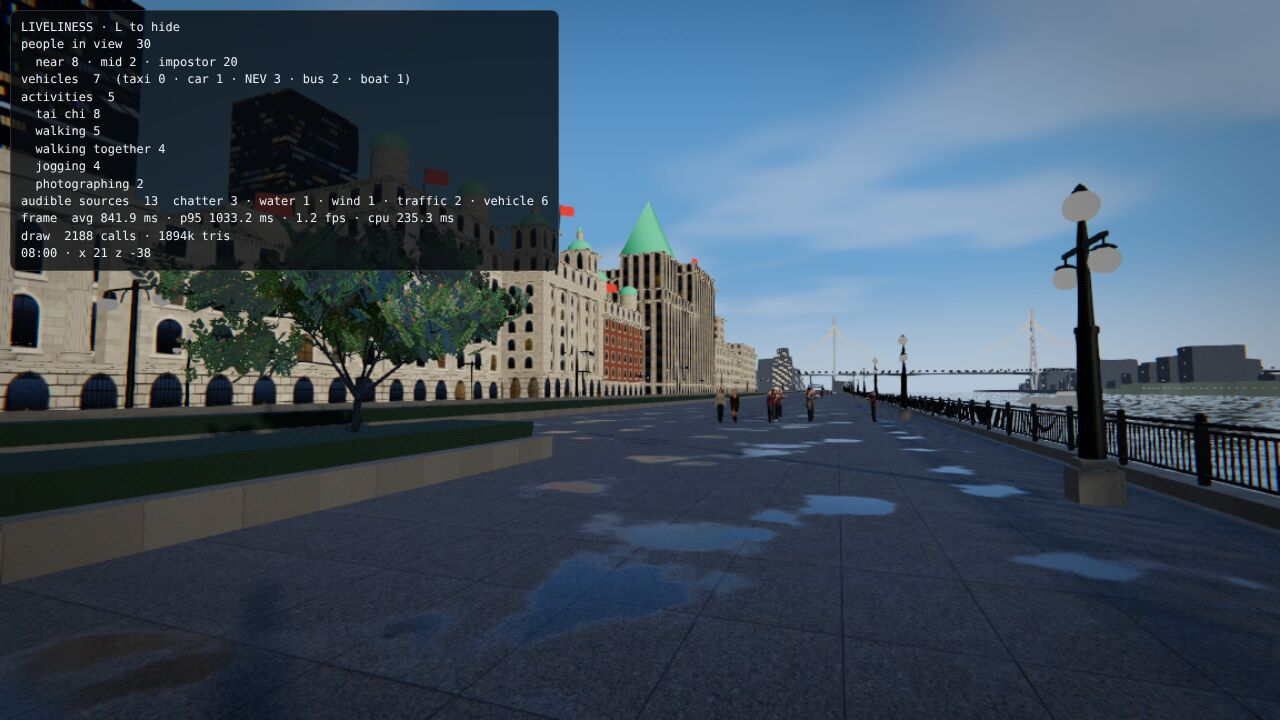
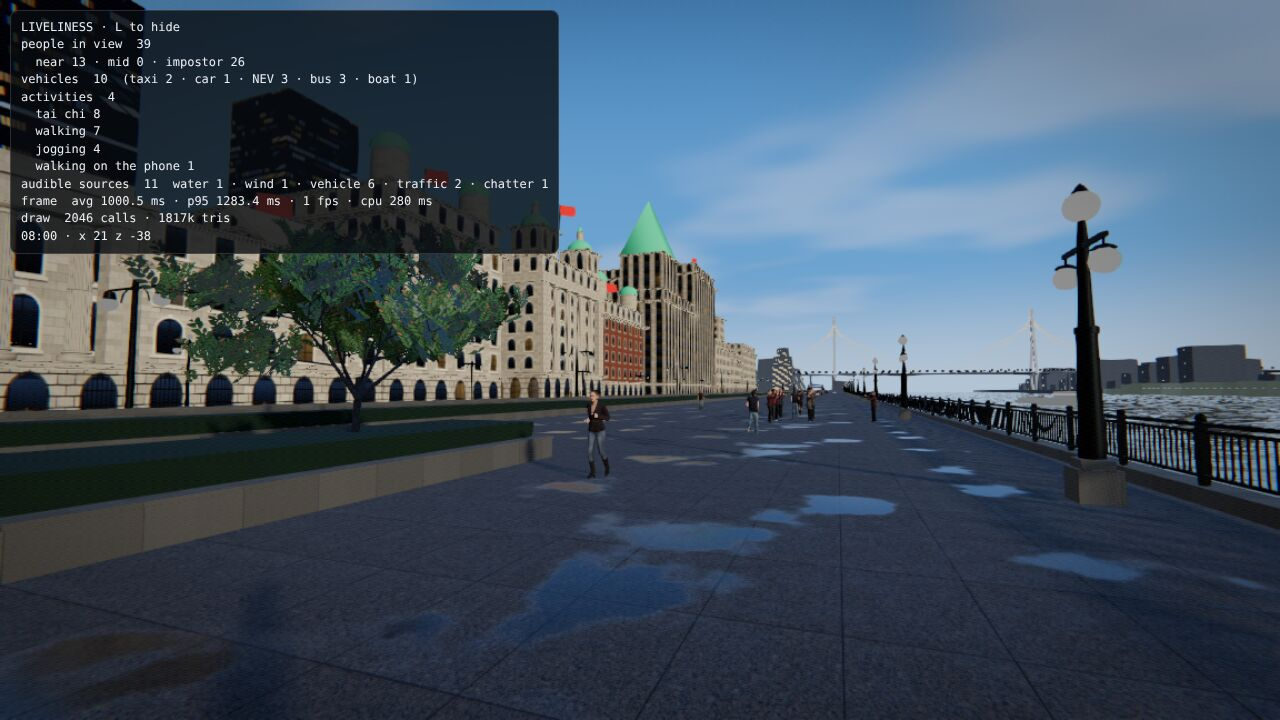
Full people go to those in view: rank the crowd's near people by where the camera looks
On Nanjing Road the hero shot showed only one or two full people: the 16 slots (medium detail) went to
the nearest people in every direction, and at that spot (just east of metro Exit 7 and the Henan Road
crossing, where people arrive) most of them are behind the camera. Not a body-pool shortage, nobody stuck.

- engine/crowd.js nearRank / viewCos (tested): anyone within 3 m stays a full person whichever way you
  face (the people you bump into and talk to); beyond that, someone outside a cone ~29 degrees wider than
  the view counts as three times as far.
- world/crowdView.js uses it, and re-ranks at once when the view turns more than ~25 degrees.
- Re-measured: full people in view at the four hero shots 2 -> 7.4, 15 -> 20, 7 -> 11.6, 8 -> 13; draw
  calls unchanged. docs/living-city.md has the cause, the numbers and a turn-round check.

Claude-Session: https://claude.ai/code/session_018TEJd3RTM5mNGaz8do4XHT

diff --git a/src/world/crowdView.js b/src/world/crowdView.js
@@ -13,6 +13,7 @@ import { holdPhone } from './pedestriansReal.js';
 import { twoBone } from './driverPose.js';
 import { L, deckLamps, DECK_LAMP_X } from './layout.js';
 import { flinchPose } from '../engine/flinch.js';
+import { nearRank, viewCos } from '../engine/crowd.js';
 
 // a reaction to being bumped (engine/social.js kinds, set by main.js on a crowd person) -> clip
 const GESTURE = { sorry: 'wave', fine: 'shrug', scold: 'angry', tut: 'look', look: 'look' };
@@ -225,7 +226,8 @@ export function createCrowdView({ scene, renderer, people, crowd, roles, nearCou
     _t.set(_e.x + fx * 0.32 - fz * 0.04, _e.y - 0.05 + up, _e.z + fz * 0.32 + fx * 0.04); _p.set(-fz * 0.8, -1, fx * 0.8).normalize();
     twoBone(bones[0], bones[1], bones[2], _t, _p);
   }
-  let nearSet = new Set(), rankT = 0;
+  let nearSet = new Set(), rankT = 0, rankFx = 0, rankFz = 0;
+  const _fwd = new THREE.Vector3();
   const S = { near: 0, far: 0 };
   const view = {
     group, atlas, stats: S,
@@ -235,12 +237,22 @@ export function createCrowdView({ scene, renderer, people, crowd, roles, nearCou
     bodyOf(a) { return live.get(a.id) || null; },
     update(dt, eye, opts = {}) {
       rain = opts.rain || 0;
-      // every quarter second: the nearest few become full people (with some hysteresis)
+      // every quarter second, or at once when you turn: the nearest few become full people, those in
+      // view first (engine/crowd.js nearRank), with some hysteresis
+      let fx = 0, fz = 0, cosHalf = -1;
+      if (camera) {
+        camera.getWorldDirection(_fwd); const h = Math.hypot(_fwd.x, _fwd.z);
+        if (h > 0.2) { fx = _fwd.x / h; fz = _fwd.z / h; cosHalf = viewCos(camera.fov, camera.aspect); }
+      }
       rankT -= dt;
+      if ((fx || fz) && (rankFx || rankFz) && fx * rankFx + fz * rankFz < 0.9) rankT = 0;   // turned more than ~25 degrees since the last ranking
       if (rankT <= 0) {
-        rankT = 0.25;
+        rankT = 0.25; rankFx = fx; rankFz = fz;
         const cand = [];
-        for (const a of crowd.agents) if (!a.gone && !a.out && !a.inside) { const d = Math.hypot(a.x - eye.x, a.z - eye.z, (a.y - eye.y) * 2); if (d < 44) cand.push([d - (nearSet.has(a.id) ? 4 : 0), a]); }
+        for (const a of crowd.agents) if (!a.gone && !a.out && !a.inside) {
+          const dy = (a.y - eye.y) * 2, d = Math.hypot(a.x - eye.x, a.z - eye.z, dy);
+          if (d < 44) cand.push([nearRank(a.x - eye.x, a.z - eye.z, fx, fz, cosHalf, d) - (nearSet.has(a.id) ? 4 : 0), a]);
+        }
         cand.sort((p, q) => p[0] - q[0]);
         nearSet = new Set(cand.slice(0, nearCount).map(([, a]) => a.id));
         for (const [id, b] of live) if (!nearSet.has(id)) { b.agent = null; b.person.root.visible = false; b.phone.visible = false; b.umb.visible = false; live.delete(id); }

diff --git a/src/engine/crowd.js b/src/engine/crowd.js
@@ -198,6 +198,23 @@ export function blocked(x, z, r = 0.25) {
   return false;
 }
 // the carriageway: people only ever on it on the zebra
+// Who becomes a full person (world/crowdView.js): the nearest few, but those you can see first. Anyone
+// within NEAR_RANK.always m stays a full person whichever way you face (they are the ones you bump into
+// and talk to); beyond that, someone outside a cone a little wider than the view counts as `behind` times
+// as far. (dx, dz): from the eye to the person; (fx, fz): the view direction on the ground, unit length
+// (0, 0 when looking straight up or down: everyone counts as in view); cosHalf: cos of the cone's half-angle;
+// d: the distance to rank by (default the distance on the ground; the caller may count height too).
+export const NEAR_RANK = { always: 3, behind: 3, margin: 0.5 };   // margin: radians added to the view's half-width
+export function nearRank(dx, dz, fx, fz, cosHalf, d = Math.hypot(dx, dz)) {
+  const g = Math.hypot(dx, dz);
+  if (d <= NEAR_RANK.always || g < 1e-6 || (!fx && !fz)) return d;
+  return (dx * fx + dz * fz) / g >= cosHalf ? d : d * NEAR_RANK.behind;
+}
+// the cone's cos for a camera: vertical field of view (degrees) and aspect -> cos(half the width + margin)
+export function viewCos(fovDeg, aspect) {
+  const half = Math.atan(Math.tan((fovDeg * Math.PI) / 360) * aspect) + NEAR_RANK.margin;
+  return half >= Math.PI ? -1 : Math.cos(half);
+}
 export const onRoad = (x, z) => (x > L.westCurbX + 0.15 && x < L.eastCurbX - 0.15) || (x < L.westCurbX && x > -100 && Math.abs(z) < L.street.roadHalfW - 0.1 && x < -31.5) || inHenan(x, z);
 
 // ---- who they are ----

diff --git a/docs/living-city.md b/docs/living-city.md
@@ -15,6 +15,8 @@ Each shot is a fixed camera at a fixed hour, at a person's eye height (1.68 m ab
 
 The crowd and traffic are the game's normal ones (no `?q`), and the preset is forced to **Mac M4** (`gfx=mac`: 90% resolution, medium detail, SMAA, one lamp shadow, no AO or wet reflections). At medium detail that is about 390 people across the whole map and 22 vehicles on Zhongshan East 1st Road, plus Henan Road's traffic.
 
+The screenshots carry the liveliness overlay as measured on 26 November, after the change to how full people are chosen (below). The frame times in them are software rendering's.
+
 ![Nanjing Road East near Henan Road at 18:00](hero-nanjing.jpg)
 ![The promenade at the Customs House at 17:45](hero-customs.jpg)
 ![The Hankou Road crossing at 18:15](hero-hankou.jpg)
@@ -85,10 +87,45 @@ Hankou Road's vehicle and sound counts swing with the signal cycle: a red phase 
 
 What stands out:
 
-- **Too few people.** The whole map holds about 390 people at medium detail. Nanjing Road at six in the evening shows under a hundred, nearly all of them as distant cards. Only one or two are full people there, against 15 on the promenade.
+- **Too few people.** The whole map holds about 390 people at medium detail. Nanjing Road at six in the evening shows under a hundred, nearly all of them as distant cards. Only one or two were full people there, against 15 on the promenade. This was fixed on 26 November (below).
 - **Too few vehicles at the crossing.** Zhongshan East 1st Road shows 1–7 vehicles where a busy four-lane road at a signal would show a queue.
 - **Narrow activity.** Four or five different things at once, mostly kinds of walking.
 - **Nanjing Road is the heaviest view:** 2,500 draw calls and 3 M triangles before any more people are added.
+
+### 26 November: full people chosen by view
+
+**Why so few full people on Nanjing Road.** The 16 full people (medium detail) went to the nearest 16 people within 44 m in every direction, whichever way the camera faced.
+
+- The Nanjing Road camera stands just east of metro Exit 7 and the Henan Road crossing, where people arrive. Most of the people near it are behind or beside it.
+- In one sample, 65 people were within 44 m but only 10 were in view, and the 16 nearest were all behind the camera, 4–8 m off.
+- It was not a shortage of avatar bodies (at most 25 of the 32 allowed had been made) and nobody was stuck.
+
+**The change** (`nearRank` in `src/engine/crowd.js`, used by `src/world/crowdView.js`):
+
+- Anyone within 3 m stays a full person whichever way you face, because those are the people you bump into and talk to.
+- Beyond that, someone outside a cone about 29° wider each side than the view counts as three times as far.
+- The ranking runs every quarter second, and at once when the view turns more than about 25°.
+
+The same four shots, measured the same way after the change:
+
+| | Nanjing Rd 18:00 | Customs House 17:45 | Hankou Rd 18:15 | Bund 08:00 |
+|---|---|---|---|---|
+| People in view (near / mid / impostor) | 70 (**7.4** / 4 / 59) | 52 (**20** / 14 / 18) | 35 (**11.6** / 16 / 7) | 40 (**13** / 0 / 27) |
+| Full people in view before the change | 2 | 15 | 7 | 8 |
+| Draw calls / triangles | 2,528 / 2.9 M | 1,676 / 1.9 M | 1,696 / 1.9 M | 2,045 / 1.8 M |
+
+- Totals differ from the first table because the crowd is random from run to run; the ranking does not change where anyone walks.
+- "Near" can exceed 16 because the crossing's four walkers and Old Lin and Ms. Su are full people too.
+- Draw calls are unchanged: the same 16 full people are drawn as before, now in view. They were drawn even behind the camera, because skinned people are never frustum-culled.
+
+**Turning round at the same spot** (play mode, two runs):
+
+| | Full people in view | People in view within 44 m | Cards in view within 20 m | Cards in view within 10 m |
+|---|---|---|---|---|
+| Facing east (down the street) | 9–11 | 12–18 | 0 | 0 |
+| Facing west (Henan Road and the exits) | 4–9 | 20–31 | 3–7 | 0 |
+
+Facing west, more people are in view than there are full-people slots. The people behind you within about 5 m still outrank people in view beyond about 15 m: that is the 3× weighting (`NEAR_RANK.behind`), and it can be raised. The swap on turning has not been looked at on a real screen.
 
 ## Provisional targets
 

diff --git a/README.md b/README.md
@@ -1030,7 +1030,8 @@ a zebra on the green man (the signal holds while stragglers finish crossing; car
 Tourists stop at the river railing to photograph Pudong or take a selfie; tour groups gather there
 round the guide; on Nanjing Road people stop at the shop windows and photograph the neon. Most people arrive up the metro stairs at Henan Road or from the ends of the
 promenade, and new people only appear where you can't see them appear. The nearest 8–40 (by detail
-level) are full Rocketbox people with motion-captured walks, phones raised for photos, the guide's flag
+level; those in view first, so the full people are the ones you can see: anyone within 3 m counts whichever
+way you face, someone behind you counts as three times as far; `engine/crowd.js` nearRank) are full Rocketbox people with motion-captured walks, phones raised for photos, the guide's flag
 in hand and real shadows; you can bump into them and talk to them (T). Everyone further away is an
 impostor: each avatar is photographed at load from 8 sides in 8 steps of its walk, plus standing and
 phone poses, into one atlas (130 small renders at load: well under a second on a real GPU, about 30 s
